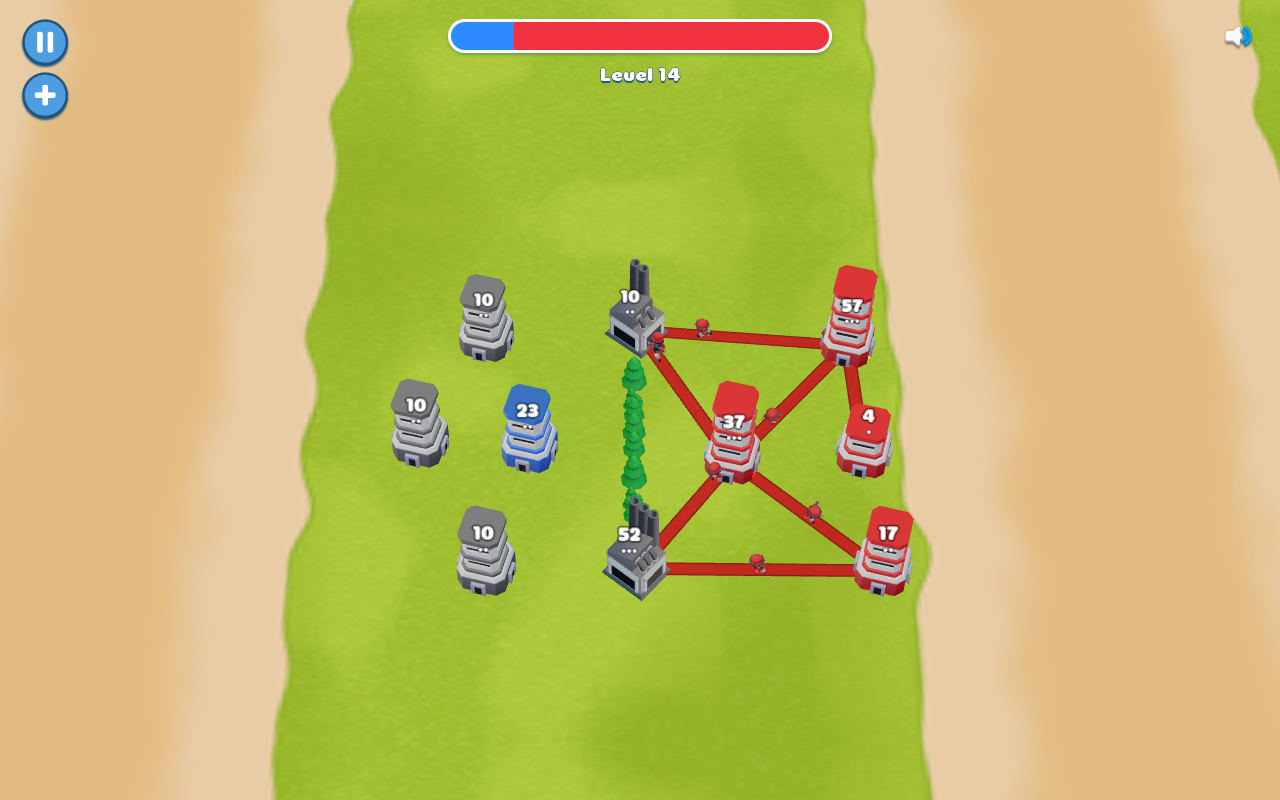
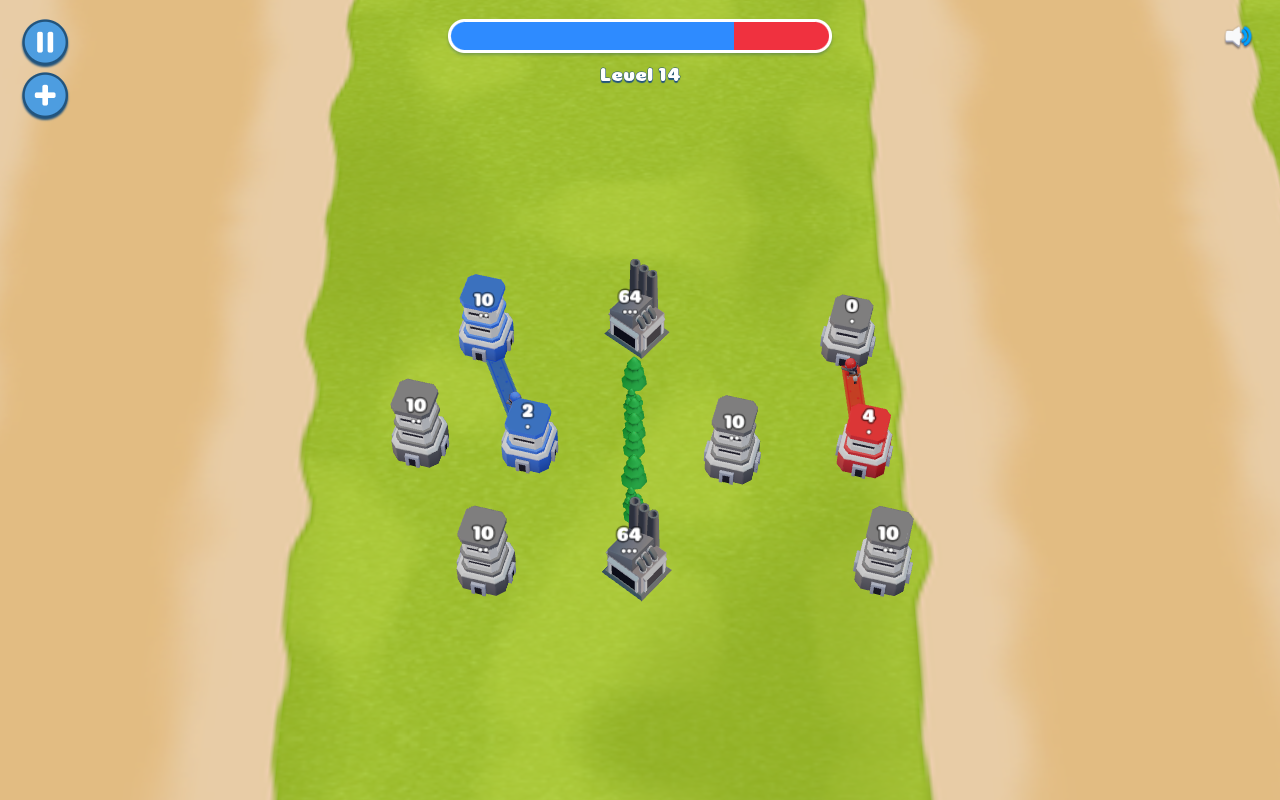
fix(web): restore road width/texture, keep darker lane colours

Changed region(s): [[0.4688, 0.3125, 0.7188, 0.75], [0.3438, 0.3438, 0.4375, 0.5625], [0.375, 0.0, 0.5938, 0.0625]]

diff --git a/apps/web/src/render/lane-renderer.ts b/apps/web/src/render/lane-renderer.ts
@@ -4,13 +4,12 @@ import { type Renderer, type RendererContext } from './registry.js';
 import { MILLI_TO_WORLD } from './scale.js';
 
 /** `WayBaseStandard` (validation Task 2): LineRenderer width 0.6, Tile texture mode, half-alpha (0.502) team tint, flat. */
-/** Presentation overrides (manifest beam width 0.6 / alpha 0.502 are ignored): ~23% narrower, near-opaque so the tint reads on grass. */
-export const LANE_WIDTH = 0.46;
-export const LANE_ALPHA = 0.85;
+export const LANE_WIDTH = 0.6;
+/** Presentation override: manifest beam alpha 0.502 is ignored; near-opaque so the dark tint reads on grass. */
+export const LANE_ALPHA = 0.9;
+/** Texture alpha (~0.4) is lifted to at least this fraction so the dark tint stays strong while the road texture still shows. */
+export const LANE_TEX_ALPHA_MIN = 0.7;
 /** Height above the ground plane (y = 0); lanes draw under buildings/units. */
-/** Dark outline: fraction of strip width (per side) that fades to LANE_EDGE_DARK brightness. */
-export const LANE_EDGE = 0.22;
-export const LANE_EDGE_DARK = 0.35;
 export const LANE_Y = 0.05;
 /** Texture scroll speed in tiles per second along the lane (from -> to). */
 export const LANE_SCROLL = 0.5;
@@ -108,11 +107,8 @@ export function createLaneRenderer(ctx: RendererContext, initial: Partial<LaneSt
     if (!m) {
       m = new MeshBasicMaterial({ map: texture(), color: key ? laneColor(style.palettes, key) : FALLBACK_COLOR, transparent: true, opacity: style.alpha, depthWrite: false, side: DoubleSide });
       m.onBeforeCompile = (sh) => {
-        // Solid strip with dark edge outline; the lane texture only modulates brightness (its own alpha is ~0.4 and fades at the edges).
         sh.fragmentShader = sh.fragmentShader.replace('#include <map_fragment>', `#include <map_fragment>
-          float laneEdge = smoothstep(0.0, ${LANE_EDGE.toFixed(2)}, min(vMapUv.y, 1.0 - vMapUv.y));
-          diffuseColor.rgb = diffuseColor.rgb / max(sampledDiffuseColor.rgb, vec3(0.001)) * mix(0.85, 1.0, sampledDiffuseColor.a) * mix(${LANE_EDGE_DARK.toFixed(2)}, 1.0, laneEdge);
-          diffuseColor.a = opacity;`);
+          diffuseColor.a = opacity * mix(${LANE_TEX_ALPHA_MIN.toFixed(2)}, 1.0, sampledDiffuseColor.a);`);
       };
       mats.set(key, m);
     }

diff --git a/apps/web/test/sp07/environment.test.ts b/apps/web/test/sp07/environment.test.ts
@@ -120,13 +120,13 @@ describe('lanes', () => {
   const palettes = manifest.palettes;
   const mesh = (r: ReturnType<typeof createLaneRenderer>, i: number) => r.root.children[i] as Mesh;
 
-  it('ribbon geometry: width 0.46, centred, yaw along from->to, UV tiles = length/width', () => {
+  it('ribbon geometry: width 0.6, centred, yaw along from->to, UV tiles = length/width', () => {
     const r = createLaneRenderer(ctx('lane'), { palettes });
     r.update(view([line(0, 1, 0), line(0, 2, 1)]), 0);
     const a = mesh(r, 1); // index 0 = preview
-    expect(a.position.x).toBeCloseTo(2); expect(a.scale.x).toBeCloseTo(4); expect(a.scale.z).toBeCloseTo(0.46); expect(a.rotation.y).toBeCloseTo(0);
+    expect(a.position.x).toBeCloseTo(2); expect(a.scale.x).toBeCloseTo(4); expect(a.scale.z).toBeCloseTo(0.6); expect(a.rotation.y).toBeCloseTo(0);
     const uv = a.geometry.getAttribute('uv'); const us = [...Array(uv.count).keys()].map(i => uv.getX(i));
-    expect(Math.max(...us)).toBeCloseTo(laneTiles(4, 0.46, 1)); expect(Math.min(...us)).toBe(0);
+    expect(Math.max(...us)).toBeCloseTo(laneTiles(4, 0.6, 1)); expect(Math.min(...us)).toBe(0);
     const b = mesh(r, 2); expect(b.scale.x).toBeCloseTo(3); expect(new Vector3(1, 0, 0).applyEuler(b.rotation).z).toBeCloseTo(1); // +x local -> +z
   });
   it('per-team colour (palette) at LANE_ALPHA, texture is the lane-wave beam', () => {
@@ -135,7 +135,7 @@ describe('lanes', () => {
     const mat = (i: number) => mesh(r, i).material as MeshBasicMaterial;
     expect(mat(1).color.getHexString()).toBe(new (mat(1).color.constructor as typeof import('three').Color)(LANE_COLORS['blue']!).getHexString());
     expect(mat(2).color.getHexString()).not.toBe(mat(1).color.getHexString());
-    expect(mat(1)).toBe(mat(3)); expect(mat(1).opacity).toBeCloseTo(0.85); expect(mat(1).transparent).toBe(true);
+    expect(mat(1)).toBe(mat(3)); expect(mat(1).opacity).toBeCloseTo(0.9); expect(mat(1).transparent).toBe(true);
   });
   it('UV scroll advances toward `to` (offset decreases mod 1) and wraps', () => {
     const c = ctx('lane'), r = createLaneRenderer(c, { palettes });

diff --git a/apps/web/src/render/environment.ts b/apps/web/src/render/environment.ts
@@ -45,10 +45,10 @@ export function createEnvironment(manifest: ManifestV2, materials: MaterialCache
   return env;
 }
 
-/** Lane ribbon params from the manifest `lane-wave` beam fx entry (texture, tile; width/alpha come from LANE_WIDTH/LANE_ALPHA). */
+/** Lane ribbon params from the manifest `lane-wave` beam fx entry (width, tile, texture; alpha comes from LANE_ALPHA). */
 function beamStyle(manifest: ManifestV2) {
   const fx = manifest.fx['lane-wave'];
   if (!fx) return {};
-  const p = fx.params as { tile?: number };
-  return { texture: fx.texture, ...(p.tile !== undefined && { tile: p.tile }) };
+  const p = fx.params as { width?: number; tile?: number };
+  return { texture: fx.texture, ...(p.width !== undefined && { width: p.width }), ...(p.tile !== undefined && { tile: p.tile }) };
 }

diff --git a/docs/agent_files/fix-playtest-feedback-lines/README.md b/docs/agent_files/fix-playtest-feedback-lines/README.md
@@ -1,4 +1,4 @@
 # fix-playtest-feedback-lines
 Line visibility. Before/after screenshots (levels 14, 17, 20 mid-match; swiftshader, 1280x800).
 - before-{14,17,20}.png / after-{14,17,20}.png
-Change: width 0.6 -> 0.46, opacity 0.502 -> 0.85, solid strip + dark edge outline (shader), darker colours. Code: apps/web/src/render/lane-renderer.ts.
+Change: original width 0.6 + texture-driven road look kept; darker colours (blue #0A3FD0, green #0B6B1C, red #D0101E, yellow #E0A000, gray #4A4A4A); opacity 0.502 -> 0.9, texture alpha lifted to >= 0.7 of opacity (small shader tweak, no outline/solid strip). Code: apps/web/src/render/lane-renderer.ts.
